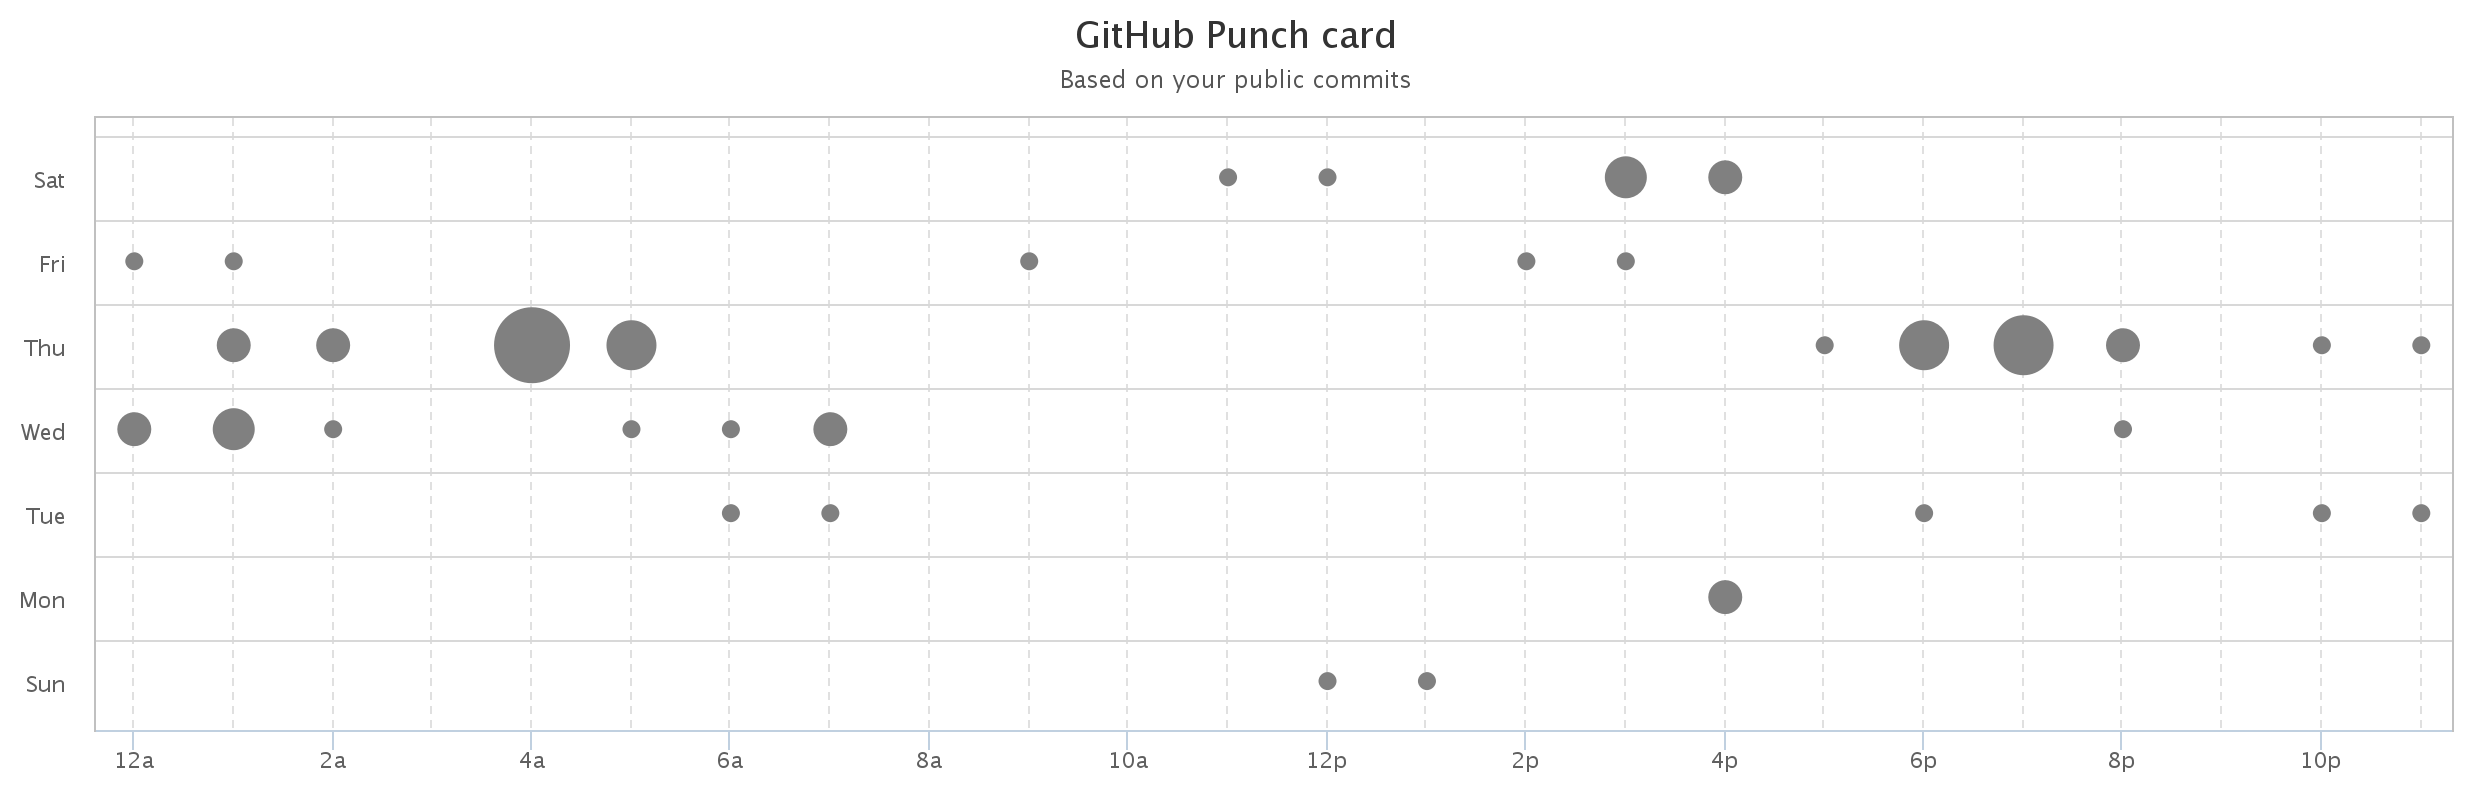
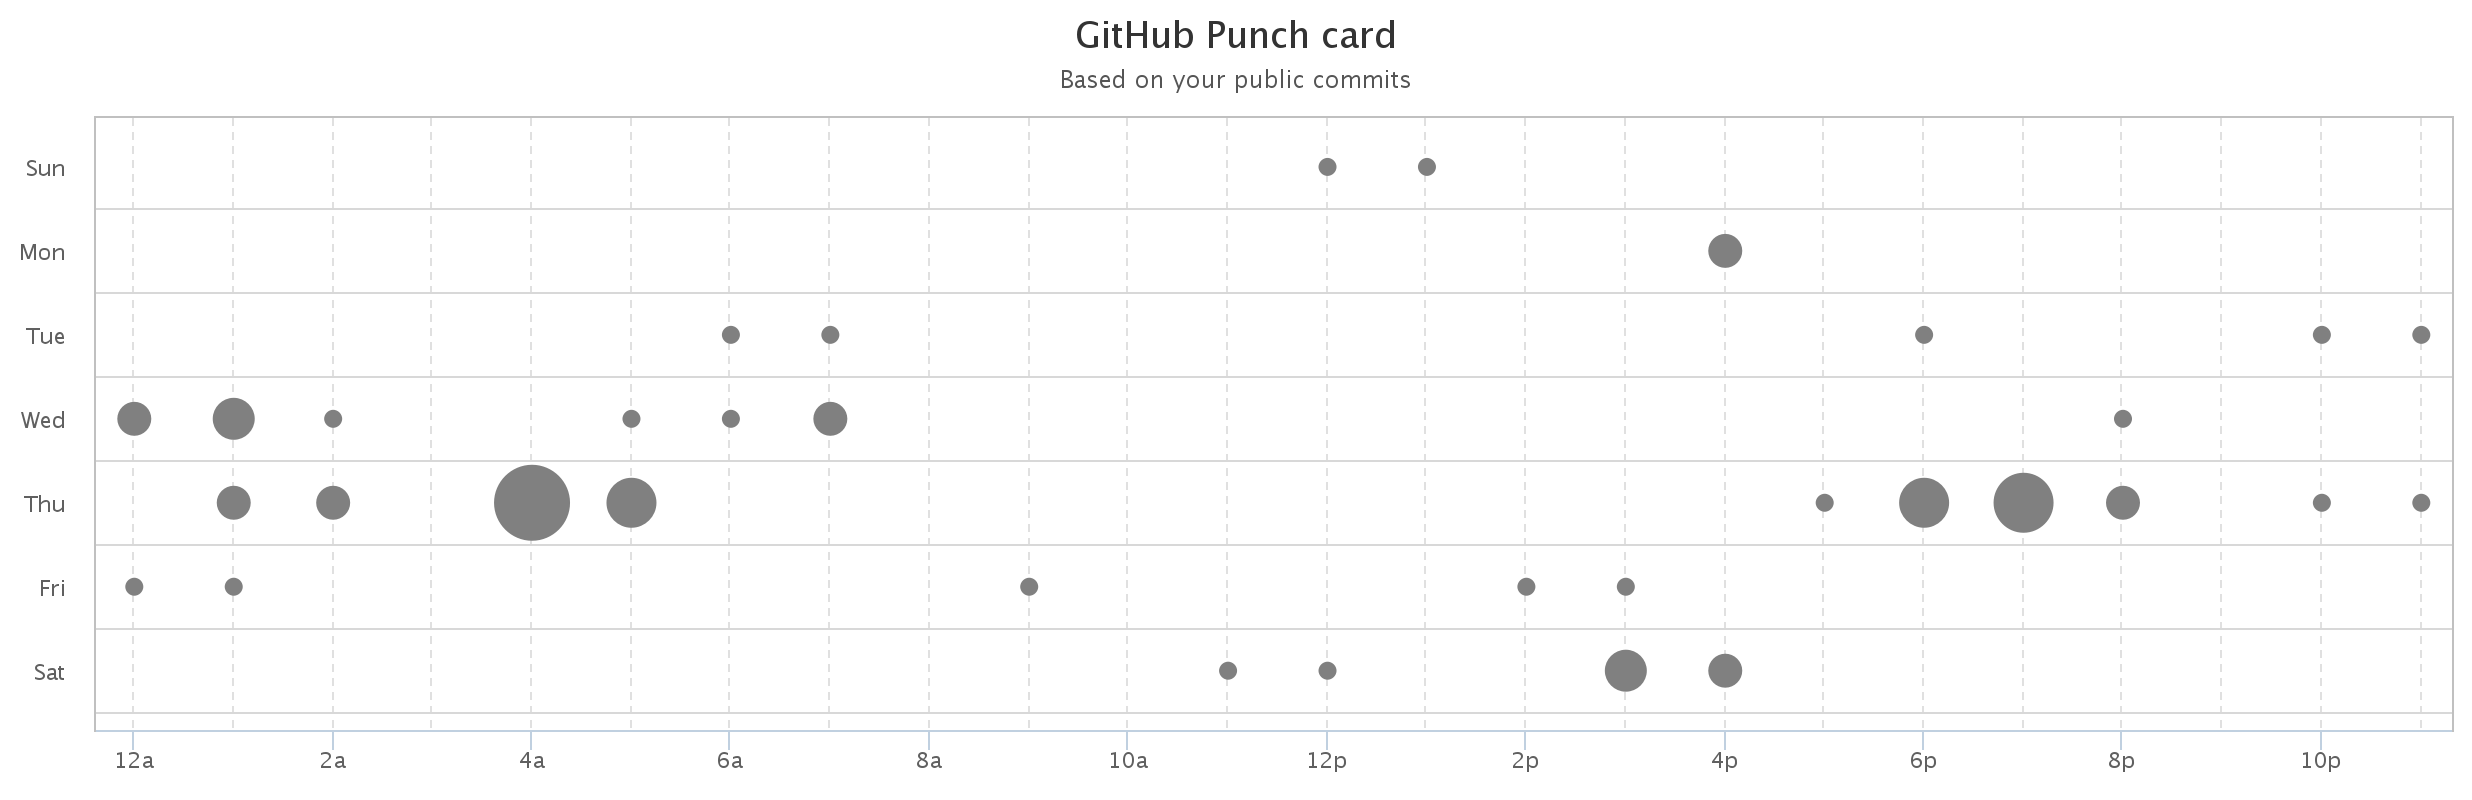
Reverse the Yaxis, update screenshot

diff --git a/github-punchcard.js b/github-punchcard.js
@@ -2,7 +2,7 @@
 * @Author: sahildua2305
 * @Date:   2016-01-21 12:05:05
 * @Last Modified by:   sahildua2305
-* @Last Modified time: 2016-01-21 12:11:24
+* @Last Modified time: 2016-01-21 12:21:19
 */
 
 
@@ -67,6 +67,7 @@ $(document).ready(function(){
         },
 
         yAxis: {
+            reversed: true,
             categories: ['Sun', 'Mon', 'Tue', 'Wed', "Thu", "Fri", "Sat"],
             startOnTick: false,
             title: {
